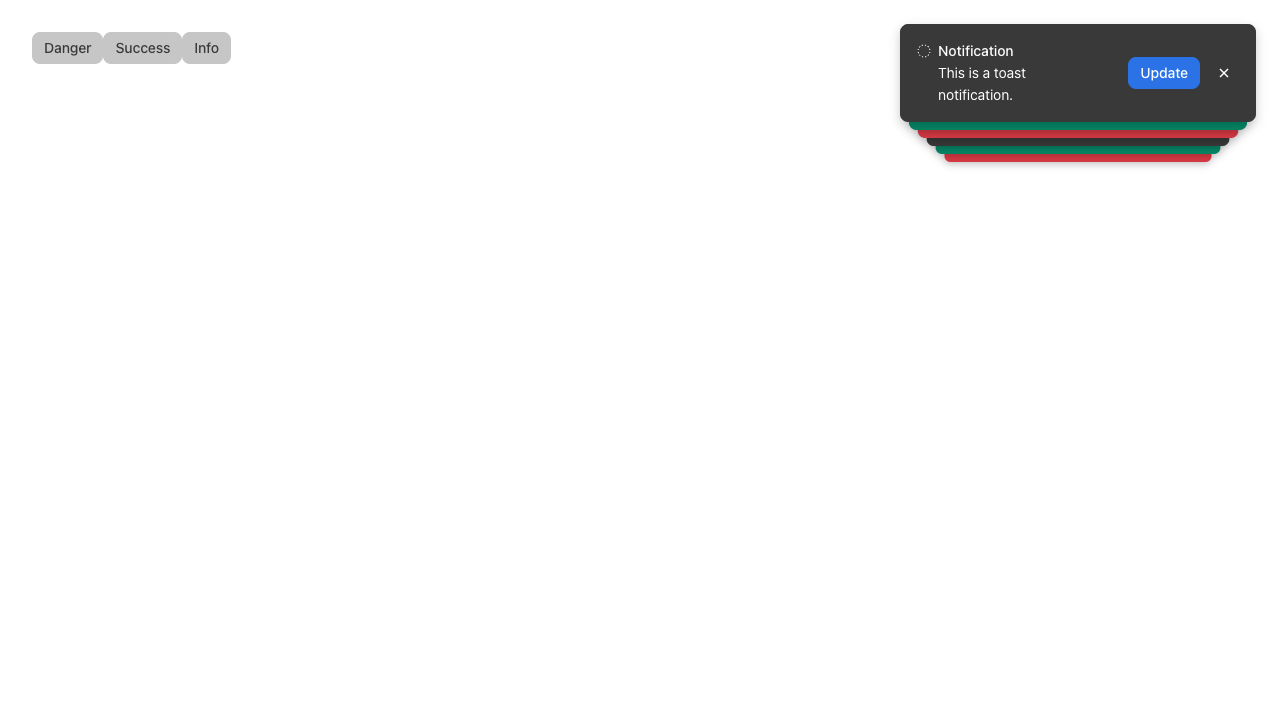
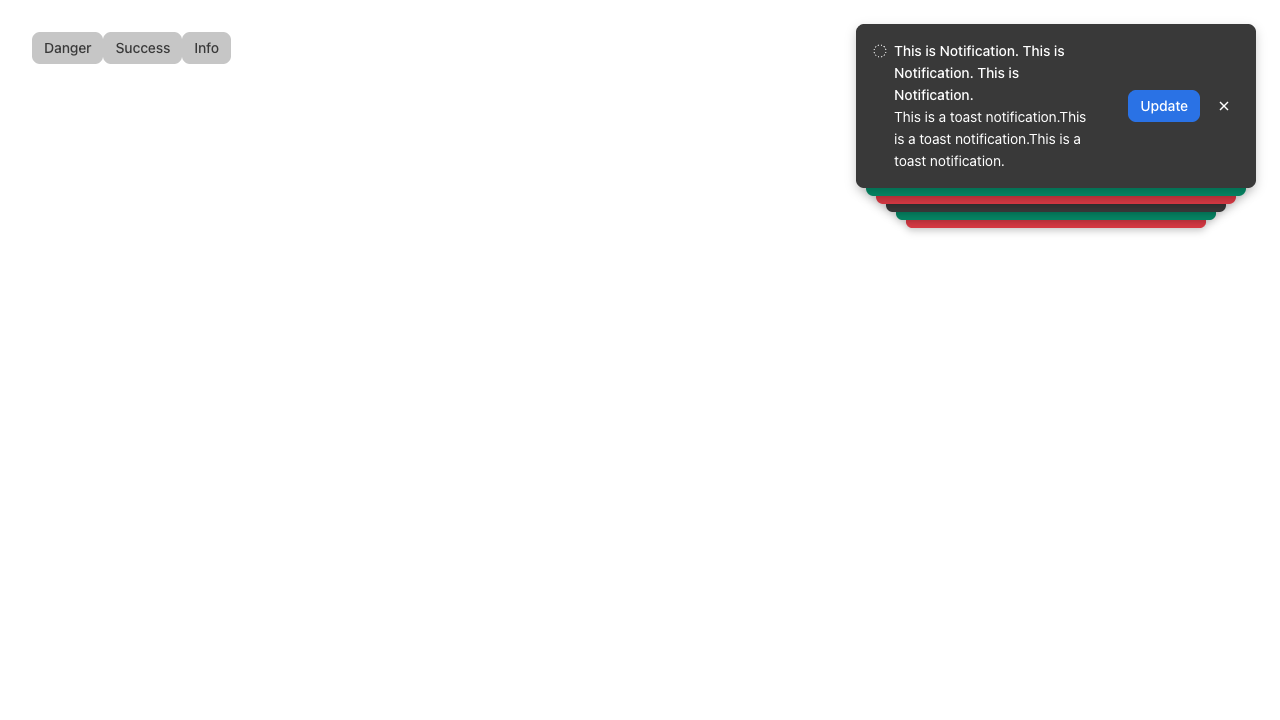
design qa

Changed region(s): [[0.6562, 0.0306, 1.0, 0.3361]]

diff --git a/packages/core/src/components/toast/toast.stories.tsx b/packages/core/src/components/toast/toast.stories.tsx
@@ -122,7 +122,7 @@ export const TestBed: Story = {
                 });
 
             const id = Toast.toastManager.add({
-                title: 'Notification',
+                title: 'This is Notification. This is Notification. This is Notification. ',
                 description: description ?? 'This is a toast notification.',
                 colorPalette,
                 action: <Button onClick={() => updateToast(id)}>Update</Button>,
@@ -139,7 +139,7 @@ export const TestBed: Story = {
         }, []);
 
         return (
-            <Toast.Toaster {...args} limit={6}>
+            <Toast.Toaster {...args} limit={6} timeout={9999999}>
                 <Button colorPalette="secondary" onClick={() => handleClick('danger')}>
                     Danger
                 </Button>

diff --git a/packages/core/src/components/toast/toast.css.ts b/packages/core/src/components/toast/toast.css.ts
@@ -34,7 +34,7 @@ export const viewport = layerStyle('components', {
     left: 'auto',
 
     margin: '0 auto',
-
+    width: '25rem',
     maxWidth: '100vw',
 
     '@media': {
@@ -62,8 +62,7 @@ export const root = recipe({
         boxShadow: vars.shadow.md,
         backgroundClip: 'padding-box',
         padding: vars.size.space[200],
-        width: 'max-content',
-        maxWidth: '500px',
+        width: '100%',
         height: inners.height,
 
         userSelect: 'none',
